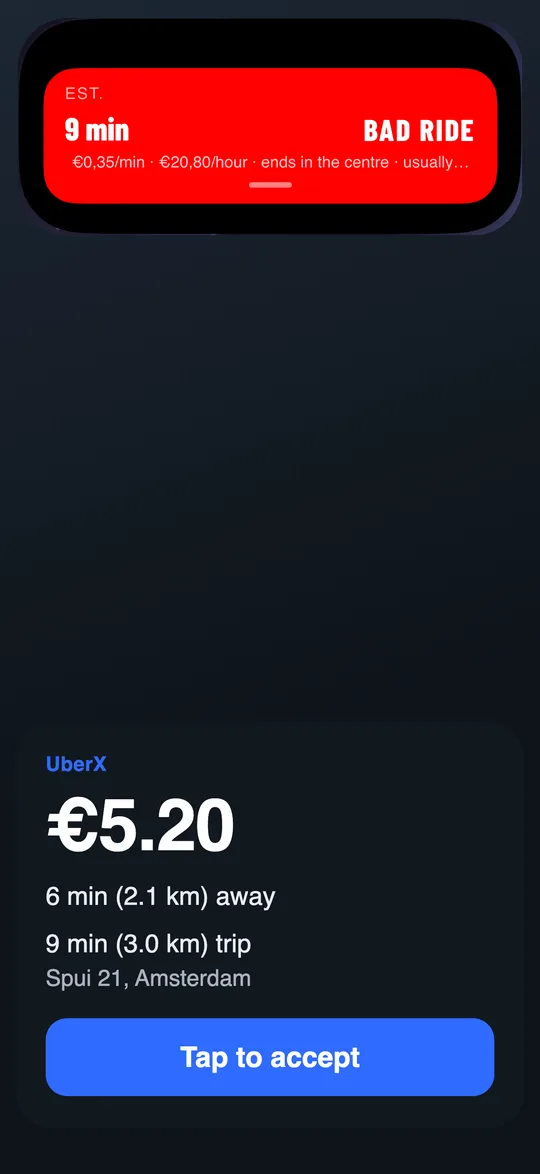
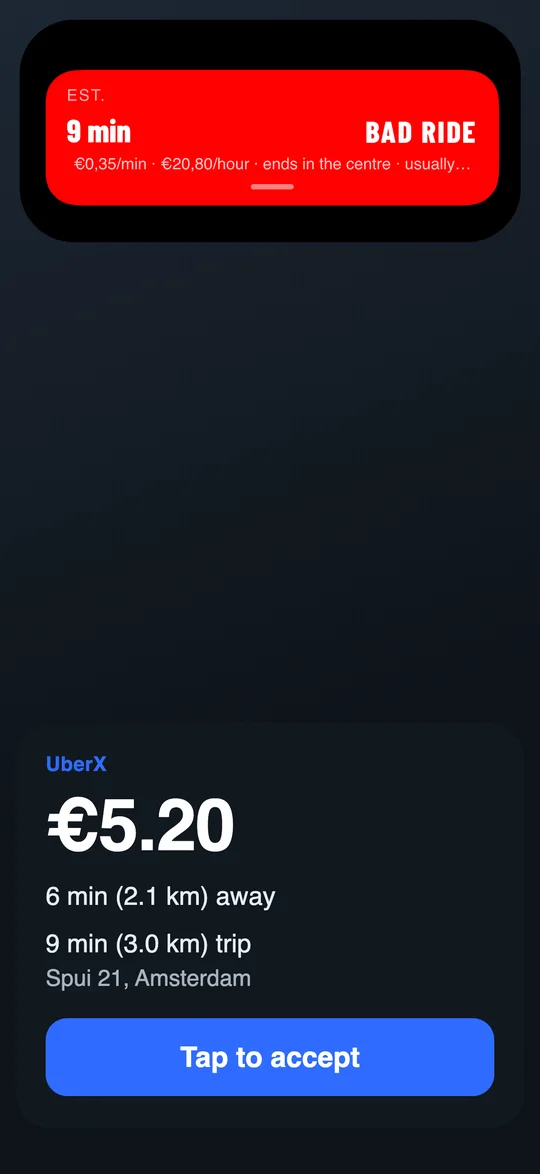
MileZero landing page

diff --git a/index.html b/index.html
@@ -24,7 +24,7 @@
 <link rel="apple-touch-icon" href="assets/apple-touch-icon.png">
 <link rel="manifest" href="manifest.webmanifest">
 <link rel="preload" href="assets/fonts/barlow-condensed-latin-800-normal.woff2" as="font" type="font/woff2" crossorigin>
-<link rel="stylesheet" href="style.css?v=1794496498">
+<link rel="stylesheet" href="style.css?v=1794506529">
 </head>
 <body>
 <a class="skip" href="#main">Skip to content</a>
@@ -137,6 +137,7 @@
           <p class="lead rs d2">The band comes down over Uber or Bolt the moment an offer shows. Tap it for the sum behind the colour. Pictures are from the app on an iPhone, with simulated rides.</p>
         </div>
         <div class="phones">
+          <figure><img src="assets/app/home-good.webp" width="540" height="1174" loading="lazy" alt="The iPhone home screen with a green MileZero band at the top saying good ride, 0,75 euro per minute"><figcaption>Home screen</figcaption></figure>
           <figure><img src="assets/app/ride-good.webp" width="540" height="1174" loading="lazy" alt="A simulated Uber offer of 24,10 euro with a green MileZero band on top saying good ride, 0,75 euro per minute"><figcaption>Good ride</figcaption></figure>
           <figure><img src="assets/app/ride-bad.webp" width="540" height="1174" loading="lazy" alt="A simulated Uber offer of 5,20 euro with a red MileZero band on top saying bad ride, 0,35 euro per minute"><figcaption>Bad ride</figcaption></figure>
           <figure><img src="assets/app/info.webp" width="540" height="1174" loading="lazy" alt="The MileZero info card: 0,75 euro per minute, with ride, pickup, fare and total time"><figcaption>Tap for the sum</figcaption></figure>
@@ -266,6 +267,6 @@
     <button type="button" class="btn" id="consentOk">Accept</button>
   </div>
 </div>
-<script src="main.js?v=1794496498"></script>
+<script src="main.js?v=1794506529"></script>
 </body>
 </html>

diff --git a/index.template.html b/index.template.html
@@ -137,6 +137,7 @@
           <p class="lead rs d2">The band comes down over Uber or Bolt the moment an offer shows. Tap it for the sum behind the colour. Pictures are from the app on an iPhone, with simulated rides.</p>
         </div>
         <div class="phones">
+          <figure><img src="assets/app/home-good.webp" width="540" height="1174" loading="lazy" alt="The iPhone home screen with a green MileZero band at the top saying good ride, 0,75 euro per minute"><figcaption>Home screen</figcaption></figure>
           <figure><img src="assets/app/ride-good.webp" width="540" height="1174" loading="lazy" alt="A simulated Uber offer of 24,10 euro with a green MileZero band on top saying good ride, 0,75 euro per minute"><figcaption>Good ride</figcaption></figure>
           <figure><img src="assets/app/ride-bad.webp" width="540" height="1174" loading="lazy" alt="A simulated Uber offer of 5,20 euro with a red MileZero band on top saying bad ride, 0,35 euro per minute"><figcaption>Bad ride</figcaption></figure>
           <figure><img src="assets/app/info.webp" width="540" height="1174" loading="lazy" alt="The MileZero info card: 0,75 euro per minute, with ride, pickup, fare and total time"><figcaption>Tap for the sum</figcaption></figure>

diff --git a/style.css b/style.css
@@ -307,9 +307,10 @@ a.clink:hover{background:var(--gold);color:var(--night);transform:translateX(4px
 
 /* carousel slide 3: simulated-ride phone pictures */
 .app-slide{align-items:center}
-.phones{display:grid;grid-template-columns:repeat(3,1fr);gap:clamp(10px,2vw,22px);align-items:start}
+@media (min-width:901px){.app-slide{grid-template-columns:minmax(0,.8fr) minmax(0,2fr)}}
+.phones{display:grid;grid-template-columns:repeat(4,1fr);gap:clamp(10px,2vw,22px);align-items:start}
 .phones figure{margin:0}
 .phones img{display:block;width:100%;height:auto;border-radius:clamp(14px,2.2vw,26px);box-shadow:0 18px 40px rgba(0,0,0,.45)}
 .phones figcaption{margin-top:10px;text-align:center;font:500 12px var(--mono);letter-spacing:.12em;text-transform:uppercase;color:var(--mut)}
-.phones figure:nth-child(2){margin-top:clamp(12px,3vw,36px)}
+.phones figure:nth-child(even){margin-top:clamp(10px,2.5vw,30px)}
 @media (max-width:640px){.phones{gap:8px}.phones figcaption{font-size:10px;letter-spacing:.06em}}
